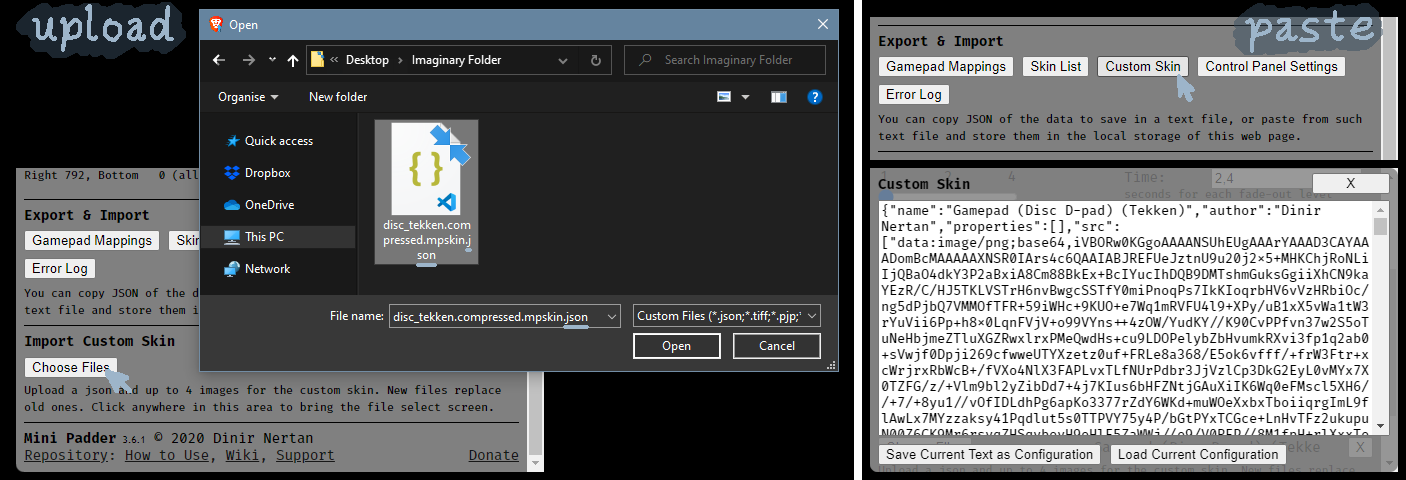
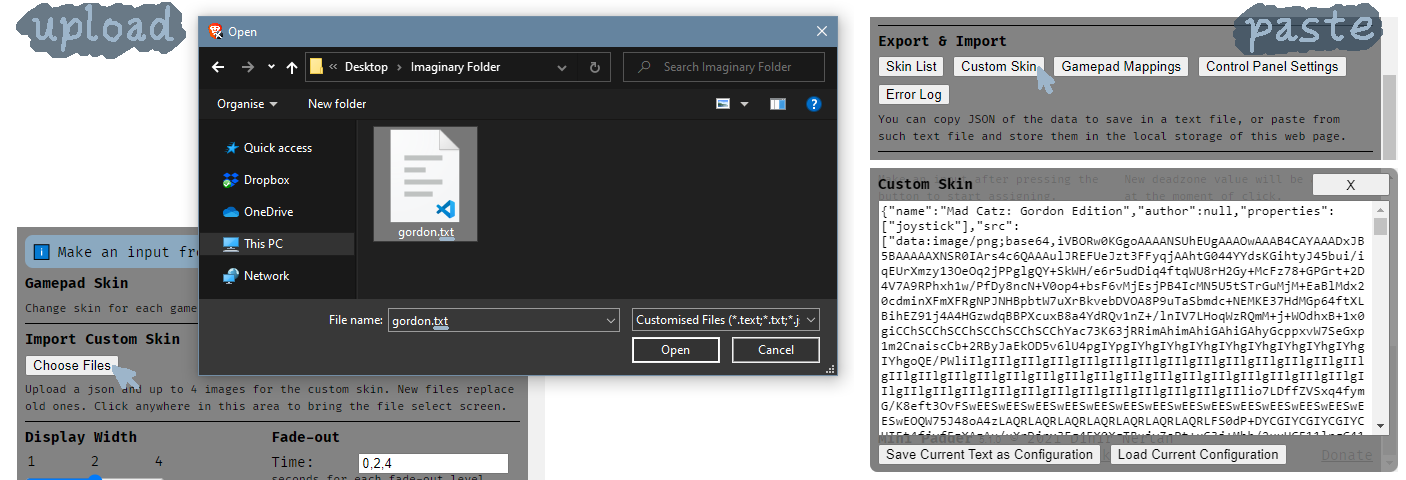
reflect file extension change on GitHub repository
- update template to reflect file extension change
- update image for wiki

diff --git a/.github/ISSUE_TEMPLATE/custom-skin.md b/.github/ISSUE_TEMPLATE/custom-skin.md
@@ -8,7 +8,5 @@
 
 **Skin File**
 
-- Archive: 
-<!--Put an archive of `.mpskin.json` and spritesheets here.-->
-- Single File:
-<!--And/or you can also upload a compressed single json file here with its extension changed to `txt`: After loading the custom skin on the app, save the text found in the control panel on `Export & Import` -> `Custom Skin`.-->
+- Archive: <!--Put an archive of the config file(s) and spritesheets here.-->
+- Single File: <!--And upload the single file here.-->
